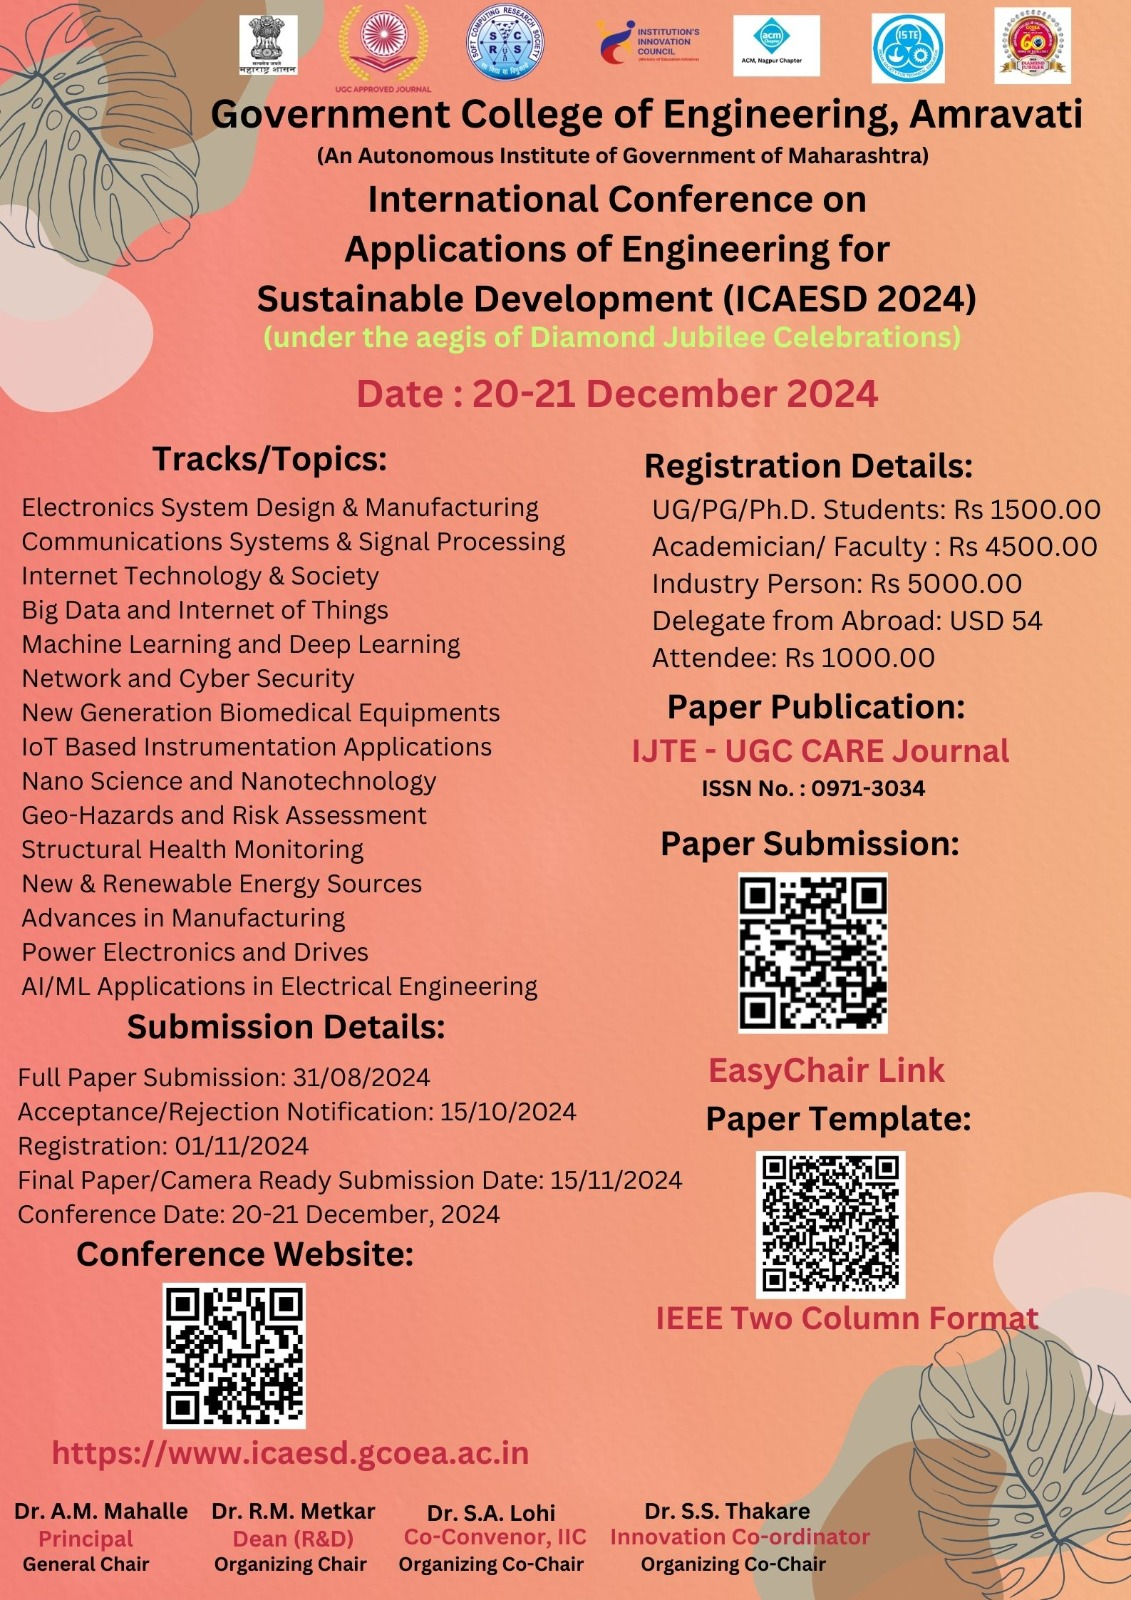
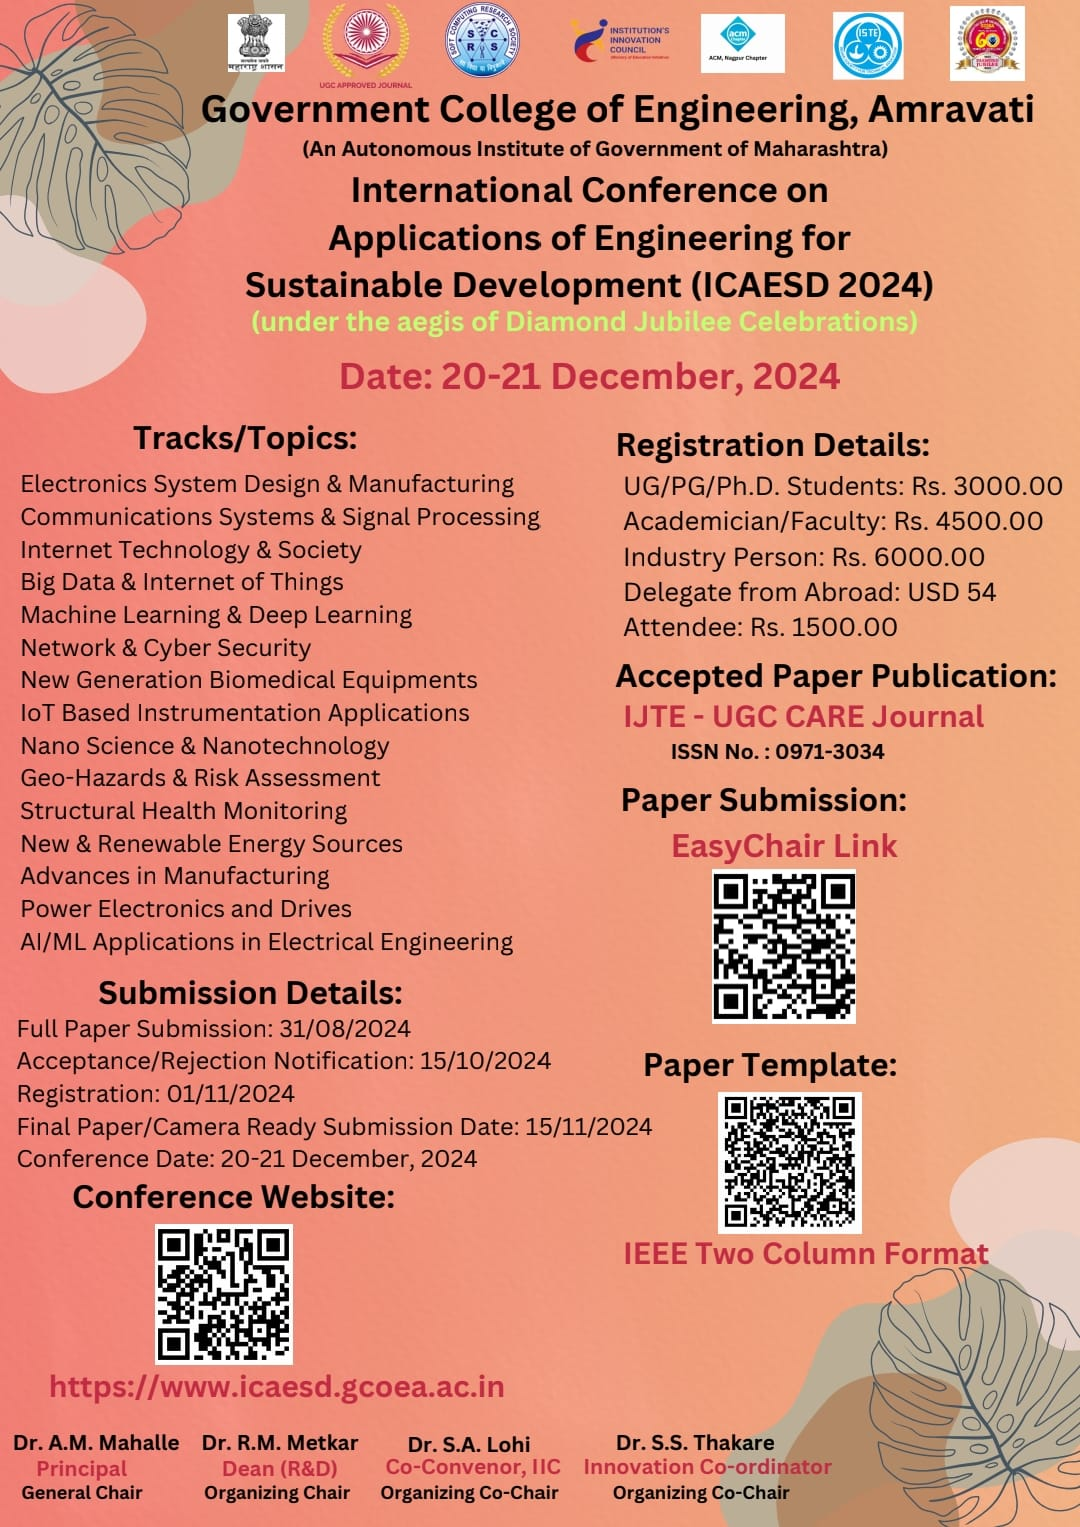
changes in fees

diff --git a/src/components/registerDetails.jsx b/src/components/registerDetails.jsx
@@ -46,7 +46,7 @@ const RegsiterDetails = () => {
                             <tbody>
                                 <tr class="odd:bg-white  even:bg-gray-50 even:dark:bg-gray-800 border-b border-gray-700">
                                     <th scope="row" class="px-6 py-4 font-medium text-gray-900 whitespace-nowrap ">UG/PG/Ph.D. Students</th>
-                                    <td class="px-6 py-4">Rs 4000.00</td>
+                                    <td class="px-6 py-4">Rs 3000.00</td>
                                 </tr>
                                 <tr class="odd:bg-white  even:bg-gray-50  border-b border-gray-700">
                                     <th scope="row" class="px-6 py-4 font-medium text-gray-900 whitespace-nowrap ">Academician/ Faculty</th>
@@ -54,7 +54,7 @@ const RegsiterDetails = () => {
                                 </tr>
                                 <tr class="odd:bg-white  even:bg-gray-50  border-b border-gray-700">
                                     <th scope="row" class="px-6 py-4 font-medium text-gray-900 whitespace-nowrap ">Industry Person</th>
-                                    <td class="px-6 py-4">Rs 5000.00</td>
+                                    <td class="px-6 py-4">Rs 6000.00</td>
                                 </tr>
                                 <tr class="odd:bg-white  even:bg-gray-50  border-b border-gray-700">
                                     <th scope="row" class="px-6 py-4 font-medium text-gray-900 whitespace-nowrap ">Delegate from Abroad</th>
@@ -62,7 +62,7 @@ const RegsiterDetails = () => {
                                 </tr>
                                 <tr class="odd:bg-white  even:bg-gray-50  border-b border-gray-700">
                                     <th scope="row" class="px-6 py-4 font-medium text-gray-900 whitespace-nowrap ">Attendee</th>
-                                    <td class="px-6 py-4">Rs 1000.00</td>
+                                    <td class="px-6 py-4">Rs 1500.00</td>
                                 </tr>
                             </tbody>
                         </table>
